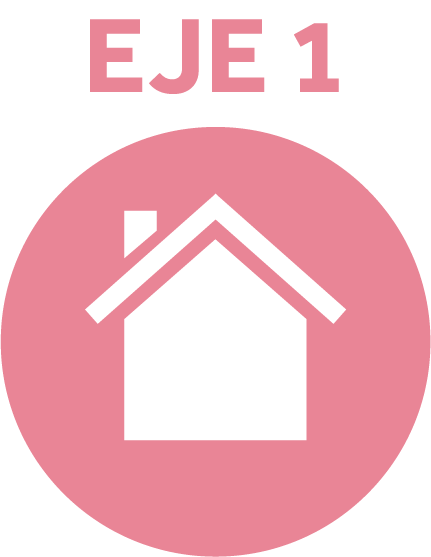
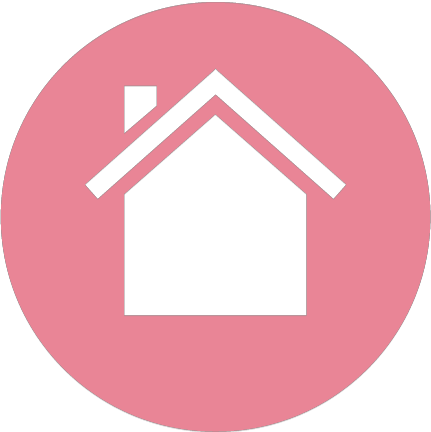
nuevas tarjetas

diff --git a/index.html b/index.html
@@ -94,79 +94,63 @@ vida, que las lleve a lograr completar sus tratamientos de manera adecuada y opo
 
 
 
-    <section class="servicios-section-full" id="ejes">
-    <div class="titulo-ejes-wrapper" id="contenedor-titulo-ejes">
-        <article class="ejes-article-anim">
-            <p class="ejes-p-anim">
-                <span class="txt-gris">EJES DE ACCIÓN</span> 
-                <span class="txt-naranja">CRUZ</span> 
-                <span class="txt-rosa">ROSA</span>
-                
-                <span class="ejes-split top" data-text="EJES DE ACCIÓN CRUZ ROSA"></span>
-                <span class="ejes-split bottom" data-text="EJES DE ACCIÓN CRUZ ROSA"></span>
-            </p>
-        </article>
-    </div>
-
-    <div class="bg"></div>
-    <div class="bg2"></div>
-    <div class="bg3"></div>
-
+   <section class="servicios-section-full" id="ejes">
     <div class="servicios-container">
-    <div class="servicio-card-expand" onmouseenter="toggleTitulo(true)" onmouseleave="toggleTitulo(false)">
-        <div class="expand-bg" style="background-color: #E63C7D;"></div>
-        <div class="expand-content">
-            <div class="expand-icon"><img src="eje 1 (1).png" class="img-eje-custom"></div>
-            <h3 class="expand-title">Albergue</h3>
-            <h3 class="eje-numero">Eje 1.</h3>
-            <div class="expand-desc">
-                Ofrecemos hospedaje y servicios básicos para pacientes y cuidadores.<br><br>
-                Cama limpia, agua caliente y alimentación enfocada en efectos secundarios.
+        <div class="servicio-card-expand">
+            <div class="expand-bg" style="background-color: #F1BDC8;"></div>
+            <div class="expand-content">
+                <span class="eje-numero-hover">Eje 1</span>
+                <div class="expand-icon"><img src="eje 1 (1).png" class="img-eje-custom"></div>
+                <h3 class="expand-title">Albergue</h3>
+                <div class="expand-desc">
+                    <p>Ofrecemos hospedaje y servicios básicos para pacientes y cuidadores.</p>
+                    <p>Cama limpia, agua caliente, un espacio seguro para descansar y una alimentación completa enfocada en los efectos secundarios de los tratamientos. </p>
+                    <p>Contamos con apoyo médico oncológico y enfermería </p>
+                    <p>Brindamos los traslados a hospitales y clínicas donde se atienden, para que no tengan que desplazarse en  transporte público o gastar en servicio de taxi. </p>
+                </div>
+            </div>
+        </div>
+
+        <div class="servicio-card-expand">
+            <div class="expand-bg" style="background-color: #F9B680;"></div>
+            <div class="expand-content">
+                <span class="eje-numero-hover">Eje 2</span>
+                <div class="expand-icon"><img src="EJE2 (2).png" class="img-eje-custom"></div>
+                <h3 class="expand-title">Desarrollo integral</h3>
+                <div class="expand-desc">
+                    <p>Brindamos acompañamiento psicológico-emocional a través de diversos programas y proyectos donde asistimos a las mujeres y sus familias abordando temas acerca de la salud mental y emocional, para mejor comprensión del proceso de la enfermedad.</p>
+
+                    <p>Realizamos actividades recreativas que ayudan a las pacientes a desconectar su pensamiento de la enfermedad, brindándole experiencias enriquecidas.</p>
+                </div>
+            </div>
+        </div>
+
+        <div class="servicio-card-expand">
+            <div class="expand-bg" style="background-color: #E98596;"></div>
+            <div class="expand-content">
+                <span class="eje-numero-hover">Eje 3</span>
+                <div class="expand-icon"><img src="EJE3.png" class="img-eje-custom"></div>
+                <h3 class="expand-title">Apoyo en el proceso de la enfermdad</h3>
+                <div class="expand-desc">
+                    <p>Módulos de atención en hospitales con información clave sobre detección oportuna.</p>
+                    <p>Campañas para sensibilizar a la sociedad y dar a conocer nuestros servicios gratuitos.</p>
+                </div>
+            </div>
+        </div>
+
+        <div class="servicio-card-expand">
+            <div class="expand-bg" style="background-color: #FFE3E6;"></div>
+            <div class="expand-content">
+                <span class="eje-numero-hover">Eje 4</span>
+                <div class="expand-icon"><img src="eje4.png" class="img-eje-custom"></div>
+                <h3 class="expand-title">Eduactivo informativo</h3>
+                <div class="expand-desc">
+                    <p>contamos con módulos de atención instalados de clínicas y hospitales públicos, proporcionando información sobre la detección oportuna del cáncer, asesorías sobre el proceso de la enfermedad y cómo sobrellevar el tratamiento, se proporcionan apoyos, etc .</p>
+                    <p>Realizamos campañas educativas a entes externos con charlas sobre el cáncer y su detección oportuna, buscando sensibilizar, servicios y programas. </p>
+                </div>
             </div>
         </div>
     </div>
-
-    <div class="servicio-card-expand" onmouseenter="toggleTitulo(true)" onmouseleave="toggleTitulo(false)">
-        <div class="expand-bg" style="background-color: #E68699;"></div>
-        <div class="expand-content">
-            <div class="expand-icon"><img src="eje2.png" alt="Desarrollo" class="img-eje-custom"></div>
-            <h3 class="expand-title">Desarrollo Integral</h3>
-            <h3 class="eje-numero">Eje 2.</h3>
-            <div class="expand-desc">
-                Acompañamiento psicológico-emocional para mujeres y familias.<br><br>
-                Salud mental para mejor comprensión del proceso de la enfermedad.
-            </div>
-        </div>
-    </div>
-
-   <div class="servicio-card-expand" onmouseenter="toggleTitulo(true)" onmouseleave="toggleTitulo(false)">
-        <div class="expand-bg" style="background-color: #F9B680;"></div>
-        <div class="expand-content">
-            <div class="expand-icon"><img src="eje 3 (1).png" class="img-eje-custom"></div>
-            <h3 class="expand-title">Apoyo En El Proceso</h3>
-            <h3 class="eje-numero">Eje 3.</h3>
-            <div class="expand-desc">
-                Proporcionamos apoyos centrados en la enfermedad y efectos secundarios.<br><br>
-                Estudios clínicos, prótesis, rehabilitación y mangas de compresión.
-            </div>
-        </div>
-    </div>
-
-    <div class="servicio-card-expand" onmouseenter="toggleTitulo(true)" onmouseleave="toggleTitulo(false)">
-        <div class="expand-bg" style="background-color: #FFE3E6;"></div>
-        <div class="expand-content">
-            <div class="expand-icon"><img src="eje4.png" class="img-eje-custom"></div>
-            <h3 class="expand-title">Educativo Informativo</h3>
-            <h3 class="eje-numero">Eje 4.</h3>
-            <div class="expand-desc">
-                Módulos de atención en hospitales con información sobre detección oportuna.<br><br>
-                Campañas educativas para sensibilizar y dar a conocer nuestros servicios.
-            </div>
-        </div>
-    </div>
-</div>
-
-
 </section>
 
 <script>
